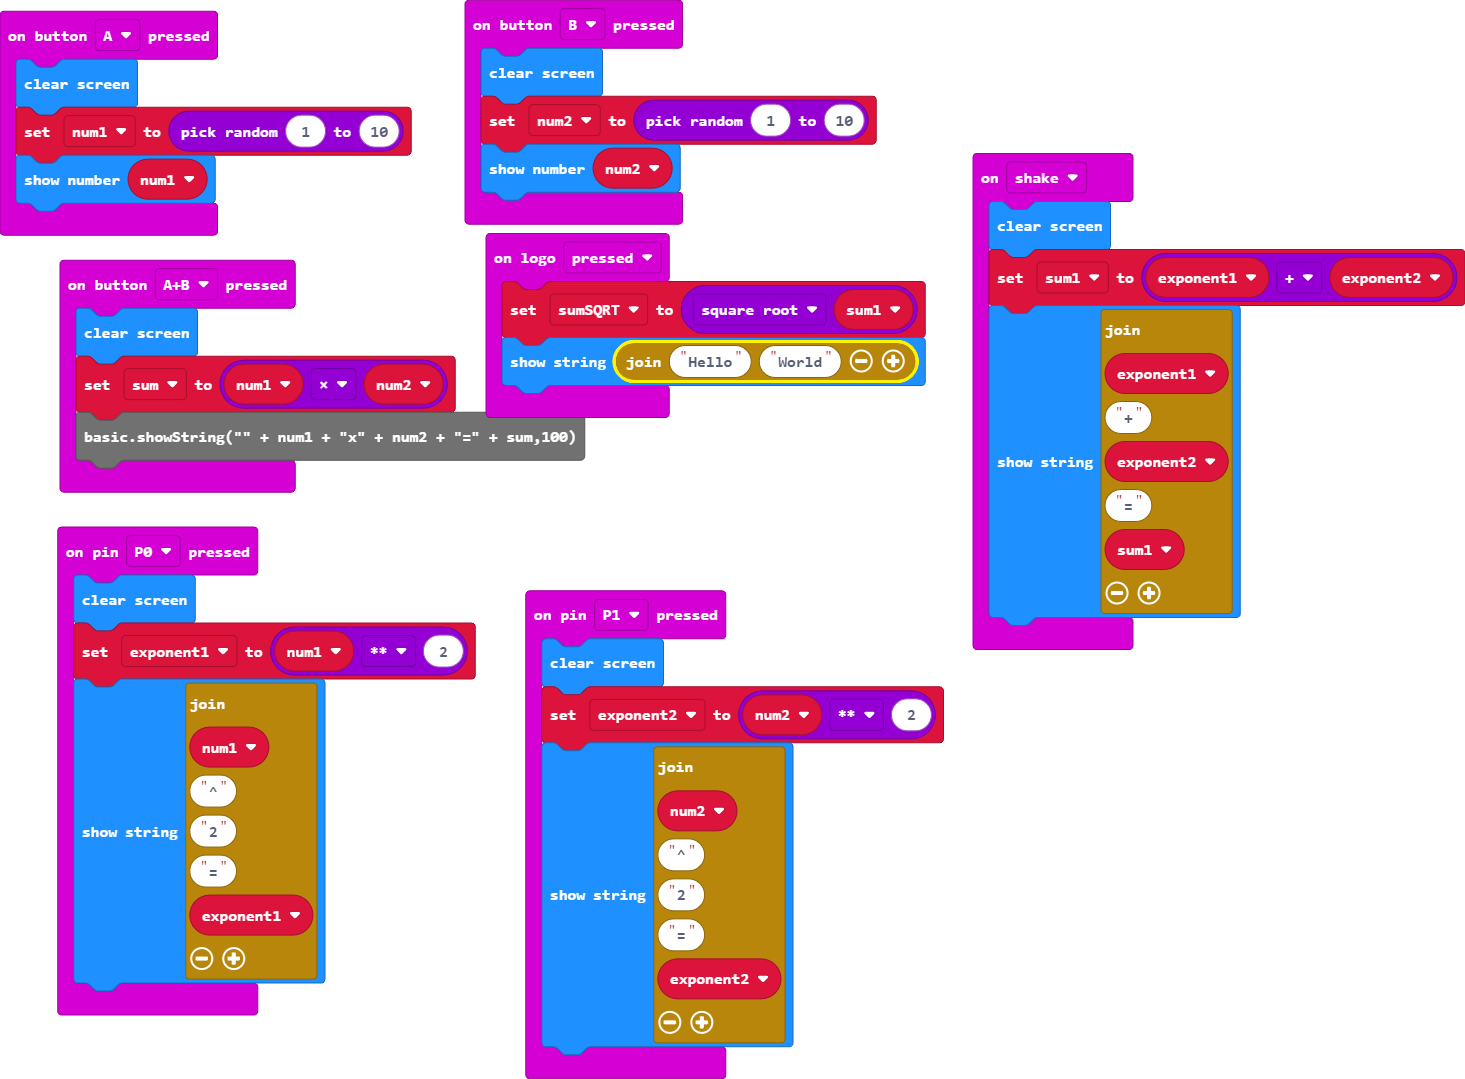
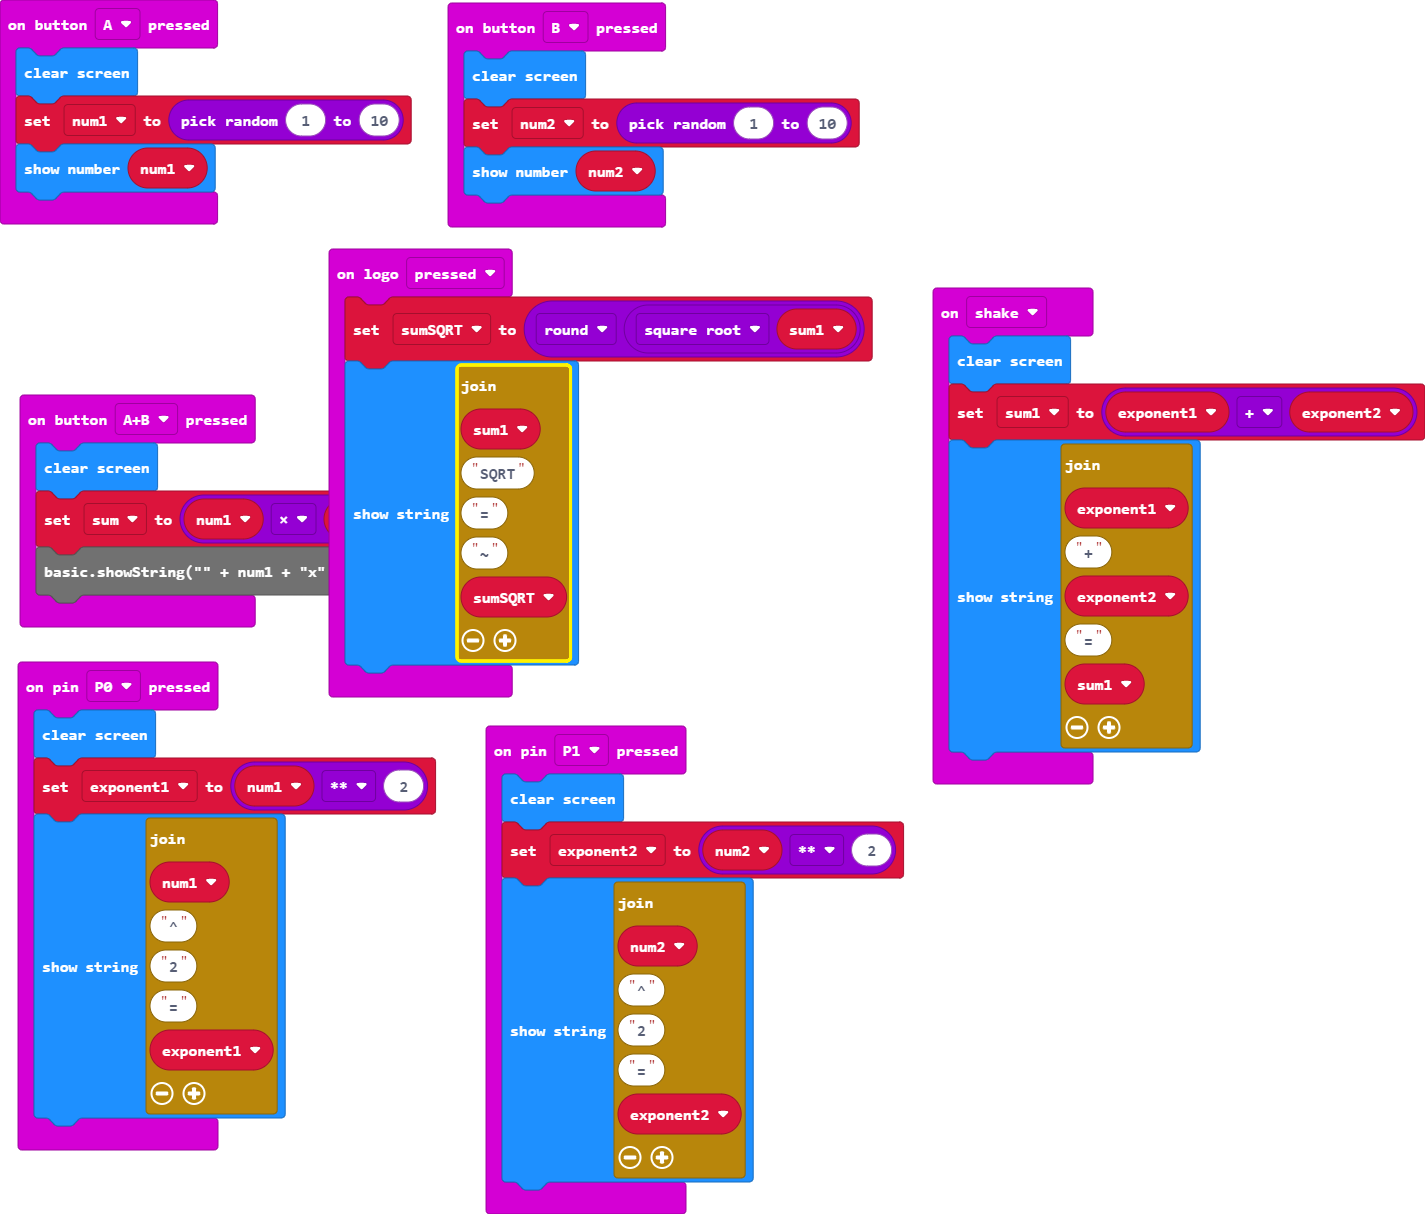
Update main.blocks, main.ts

diff --git a/main.ts b/main.ts
@@ -36,6 +36,6 @@ input.onGesture(Gesture.Shake, function () {
     basic.showString("" + exponent1 + "+" + exponent2 + "=" + sum1)
 })
 input.onLogoEvent(TouchButtonEvent.Pressed, function () {
-    sumSQRT = Math.sqrt(sum1)
-    basic.showString("Hello" + "World")
+    sumSQRT = Math.round(Math.sqrt(sum1))
+    basic.showString("" + sum1 + "SQRT" + "=" + "~" + sumSQRT)
 })
